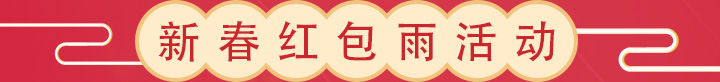
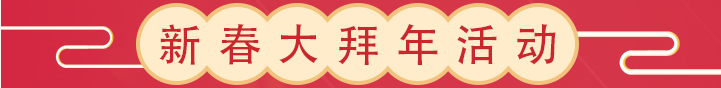
修改主会场，微调

diff --git a/index.html b/index.html
@@ -43,7 +43,7 @@
 				</div>
 				<div class="gs-name">中山邮政</div>
 				<div class="hd-time">大年三十</div>
-				<div class="hd-money">红包总额4888元</div>
+				<div class="hd-money">利是总额4888元</div>
 			</li>
 			<li>
 				<div class="logo">
@@ -51,7 +51,7 @@
 				</div>
 				<div class="gs-name">青年网商</div>
 				<div class="hd-time">大年初一</div>
-				<div class="hd-money">红包总额8888元</div>
+				<div class="hd-money">利是总额8888元</div>
 			</li>
 			<li>
 				<div class="logo">
@@ -59,7 +59,7 @@
 				</div>
 				<div class="gs-name">中山邮储</div>
 				<div class="hd-time">大年初二</div>
-				<div class="hd-money">红包总额12888元</div>
+				<div class="hd-money">利是总额12888元</div>
 			</li>
 			<li>
 				<div class="logo">
@@ -67,7 +67,7 @@
 				</div>
 				<div class="gs-name">星火教育</div>
 				<div class="hd-time">大年初三</div>
-				<div class="hd-money">红包总额13888元</div>
+				<div class="hd-money">利是总额13888元</div>
 			</li>
 
 		</ul>
@@ -77,7 +77,7 @@
 		<p>活动主办：中国邮政集团公司中山市分公司</p>
 		<p>技术支持：中山市青年网商电子商务有限公司</p>
 		<p>咨询电话：0760-23794777</p>
-		<p>活动解释权归主办方所有</p>
+		<p>主办方在法律范围内拥有解释权</p>
 	</div>
 
 <script src="js/jquery-3.2.1.min.js"></script>
